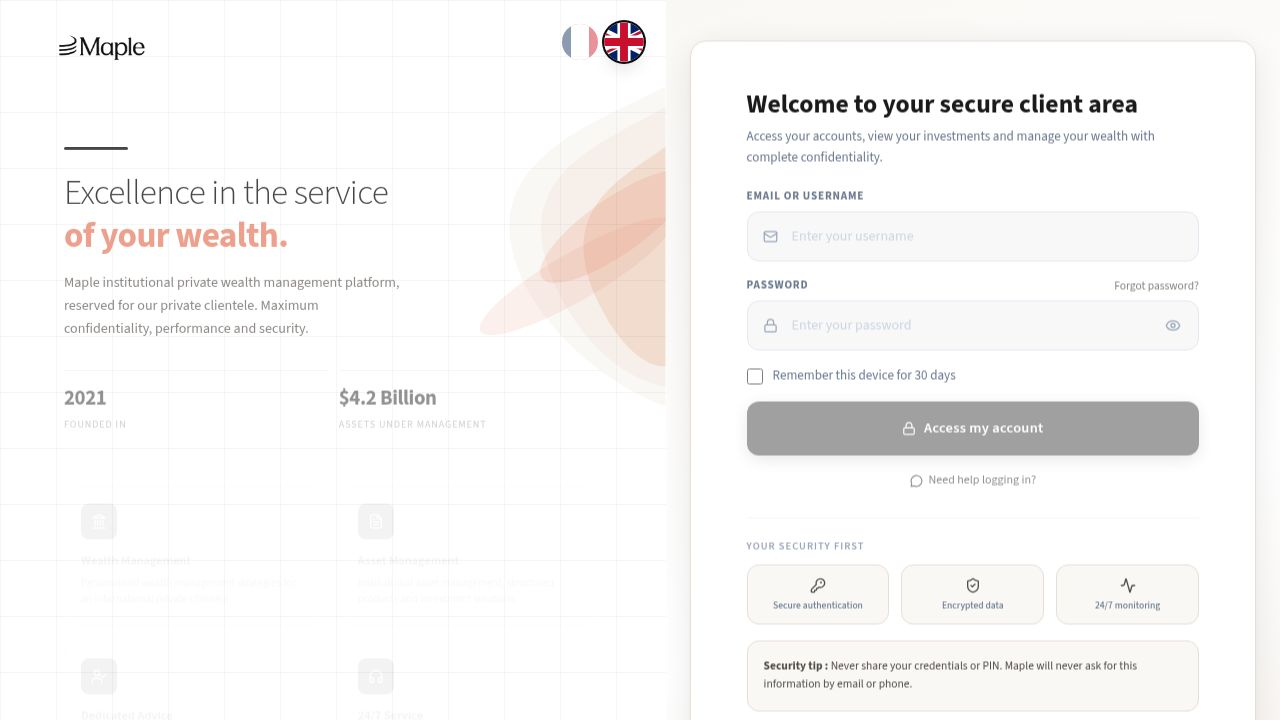
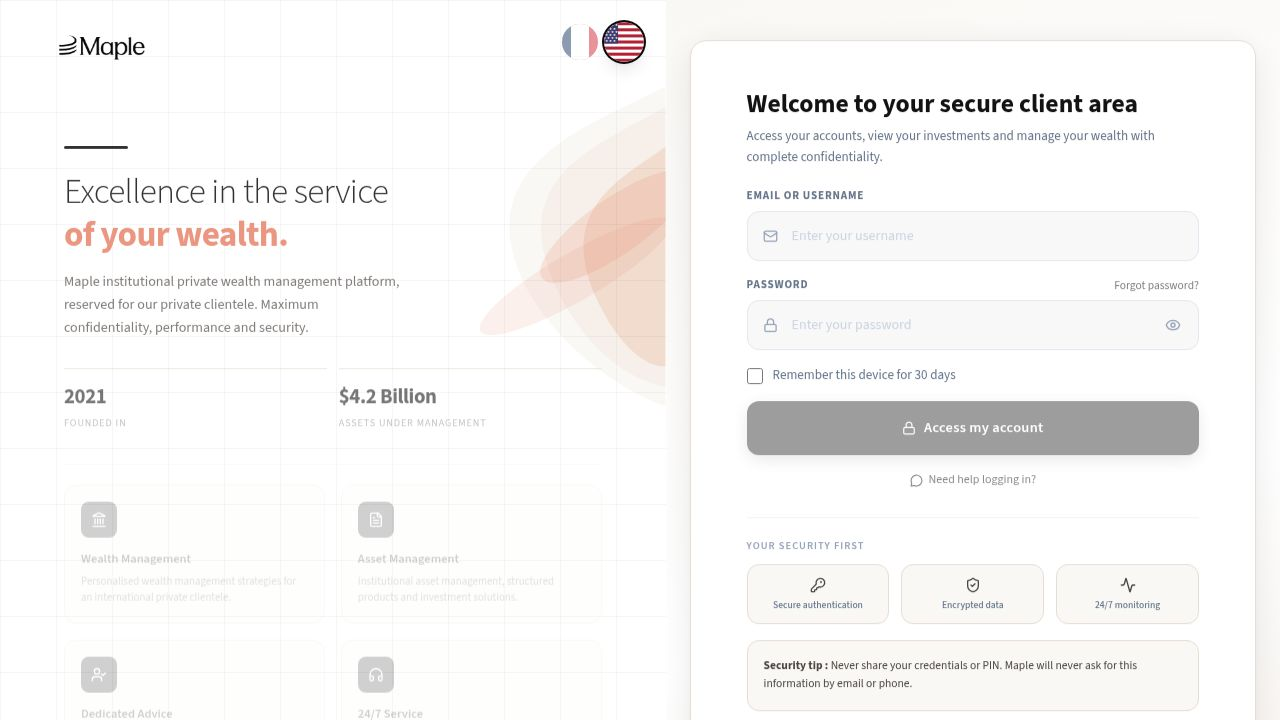
Translate trading platform interface elements to English
Update UI components and configuration files to localize trading platform elements, including symbol categories, terminal tabs, indicator names, order toggles, and account metrics, from French to English.

Replit-Commit-Author: Agent
Replit-Commit-Session-Id: 83ac50db-0d53-4941-9803-5463444df32d
Replit-Commit-Checkpoint-Type: full_checkpoint
Replit-Commit-Event-Id: 18cf37ba-3515-4398-8d2e-e5e9049655b7
Replit-Commit-Screenshot-Url: https://storage.googleapis.com/screenshot-production-us-central1/6fb53e93-b075-4e03-9b6d-995a0dc5282b/83ac50db-0d53-4941-9803-5463444df32d/EEr69GT
Replit-Helium-Checkpoint-Created: true

diff --git a/artifacts/client-portal/src/lib/tradingSymbols.ts b/artifacts/client-portal/src/lib/tradingSymbols.ts
@@ -7,6 +7,24 @@ export const SYMBOL_CATEGORIES = [
   { key: 'stocks',      label: 'Actions'         },
 ];
 
+export function getLocalizedCategories(lang: string) {
+  return [
+    { key: 'crypto',      label: 'Crypto'                                    },
+    { key: 'forex',       label: 'Forex'                                     },
+    { key: 'commodities', label: lang === 'en' ? 'Commodities' : 'Matières 1ères' },
+    { key: 'stocks',      label: lang === 'en' ? 'Stocks'      : 'Actions'        },
+  ];
+}
+
+export function getLocalizedTerminalTabs(lang: string) {
+  return [
+    { key: 'positions', label: 'Positions'                                          },
+    { key: 'orders',    label: lang === 'en' ? 'Orders'          : 'Ordres'         },
+    { key: 'history',   label: lang === 'en' ? 'History'         : 'Historique'     },
+    { key: 'account',   label: lang === 'en' ? 'Account Summary' : 'Résumé Compte'  },
+  ];
+}
+
 export const SYMBOLS: TradingSymbolDef[] = [
   // ── Crypto (Binance USDT) ────────────────────────────────────────────────
   { symbol: 'BTCUSDT',     label: 'BTC/USDT',     type: 'crypto',      spreadKey: 'BTCUSDT'     },
@@ -72,14 +90,14 @@ export const SYMBOLS: TradingSymbolDef[] = [
   { symbol: 'USD/SEK',     label: 'USD/SEK',       type: 'forex',       spreadKey: 'USD/SEK'     },
   { symbol: 'USD/ZAR',     label: 'USD/ZAR',       type: 'forex',       spreadKey: 'USD/ZAR'     },
   // ── Matières premières (Twelve Data) ─────────────────────────────────────
-  { symbol: 'XAU/USD',    label: 'Or (XAU)',        type: 'commodities', spreadKey: 'XAU/USD'    },
-  { symbol: 'XAG/USD',    label: 'Argent (XAG)',    type: 'commodities', spreadKey: 'XAG/USD'    },
-  { symbol: 'WTI/USD',    label: 'Pétrole WTI',     type: 'commodities', spreadKey: 'WTI/USD'    },
+  { symbol: 'XAU/USD',    label: 'Gold (XAU)',      type: 'commodities', spreadKey: 'XAU/USD'    },
+  { symbol: 'XAG/USD',    label: 'Silver (XAG)',    type: 'commodities', spreadKey: 'XAG/USD'    },
+  { symbol: 'WTI/USD',    label: 'WTI Oil',         type: 'commodities', spreadKey: 'WTI/USD'    },
   { symbol: 'BRENT/USD',  label: 'Brent Crude',     type: 'commodities', spreadKey: 'BRENT/USD'  },
-  { symbol: 'XPT/USD',    label: 'Platine (XPT)',   type: 'commodities', spreadKey: 'XPT/USD'    },
+  { symbol: 'XPT/USD',    label: 'Platinum (XPT)',  type: 'commodities', spreadKey: 'XPT/USD'    },
   { symbol: 'XPD/USD',    label: 'Palladium (XPD)', type: 'commodities', spreadKey: 'XPD/USD'    },
-  { symbol: 'NG/USD',     label: 'Gaz naturel',     type: 'commodities', spreadKey: 'NG/USD'     },
-  { symbol: 'COPPER/USD', label: 'Cuivre',          type: 'commodities', spreadKey: 'COPPER/USD' },
+  { symbol: 'NG/USD',     label: 'Natural Gas',     type: 'commodities', spreadKey: 'NG/USD'     },
+  { symbol: 'COPPER/USD', label: 'Copper',          type: 'commodities', spreadKey: 'COPPER/USD' },
   // ── Actions US (Twelve Data) ──────────────────────────────────────────────
   { symbol: 'AAPL',   label: 'Apple',            type: 'stocks',      spreadKey: 'AAPL'   },
   { symbol: 'MSFT',   label: 'Microsoft',        type: 'stocks',      spreadKey: 'MSFT'   },
@@ -151,7 +169,7 @@ export const SYMBOLS: TradingSymbolDef[] = [
 
 export const TERMINAL_TABS = [
   { key: 'positions', label: 'Positions'     },
-  { key: 'orders',    label: 'Ordres'        },
-  { key: 'history',   label: 'Historique'    },
-  { key: 'account',   label: 'Résumé Compte' },
+  { key: 'orders',    label: 'Orders'        },
+  { key: 'history',   label: 'History'       },
+  { key: 'account',   label: 'Account Summary' },
 ];

diff --git a/artifacts/client-portal/src/components/trading/TradingDashboardMT4.tsx b/artifacts/client-portal/src/components/trading/TradingDashboardMT4.tsx
@@ -8,7 +8,8 @@ import MT4AccountBar from './MT4AccountBar';
 import { useTradingData } from '@/hooks/useTradingData';
 import { useRealtimeMarketPrices } from '@/hooks/useRealtimeMarketPrices';
 import { getBidAskPrices } from '@/lib/tradingMarketData';
-import { SYMBOLS, SYMBOL_CATEGORIES, TERMINAL_TABS } from '@/lib/tradingSymbols';
+import { SYMBOLS, TERMINAL_TABS, getLocalizedCategories, getLocalizedTerminalTabs } from '@/lib/tradingSymbols';
+import { useLanguage } from '@/contexts/LanguageContext';
 
 interface Props {
   portfolio: any;
@@ -17,6 +18,9 @@ interface Props {
 }
 
 const TradingDashboardMT4 = ({ portfolio, leadId, onPortfolioUpdate }: Props) => {
+  const { lang } = useLanguage();
+  const localizedCategories = getLocalizedCategories(lang);
+  const localizedTabs = getLocalizedTerminalTabs(lang);
   const [selectedSymbol, setSelectedSymbol] = useState(SYMBOLS[0]);
   const [activeTerminalTab, setActiveTerminalTab] = useState('positions');
   const [showOrderPanel, setShowOrderPanel] = useState(true);
@@ -84,7 +88,7 @@ const TradingDashboardMT4 = ({ portfolio, leadId, onPortfolioUpdate }: Props) =>
       <div className="flex-1 flex overflow-hidden">
         <MT4MarketWatch
           symbols={SYMBOLS}
-          categories={SYMBOL_CATEGORIES}
+          categories={localizedCategories}
           livePrices={livePrices}
           spreadsConfig={spreadsConfig}
           selectedSymbol={selectedSymbol.symbol}
@@ -121,7 +125,7 @@ const TradingDashboardMT4 = ({ portfolio, leadId, onPortfolioUpdate }: Props) =>
 
       <div className="h-[200px] shrink-0 border-t border-[#3a3a52] bg-[#1e1e32] flex flex-col">
         <div className="flex items-center border-b border-[#2d2d44] bg-[#252540]">
-          {TERMINAL_TABS.map(tab => (
+          {localizedTabs.map(tab => (
             <button
               key={tab.key}
               onClick={() => setActiveTerminalTab(tab.key)}
@@ -145,7 +149,7 @@ const TradingDashboardMT4 = ({ portfolio, leadId, onPortfolioUpdate }: Props) =>
             onClick={() => setShowOrderPanel(!showOrderPanel)}
             className="px-3 py-1 text-[10px] text-[#8a8fa3] hover:text-[#c5c8d6] transition-colors"
           >
-            {showOrderPanel ? 'Masquer Ordres' : 'Afficher Ordres'}
+            {showOrderPanel ? (lang === 'en' ? 'Hide Orders' : 'Masquer Ordres') : (lang === 'en' ? 'Show Orders' : 'Afficher Ordres')}
           </button>
         </div>
 
@@ -178,12 +182,12 @@ const TradingDashboardMT4 = ({ portfolio, leadId, onPortfolioUpdate }: Props) =>
           {activeTerminalTab === 'account' && (
             <div className="grid grid-cols-6 gap-2 p-2 text-[11px]">
               {[
-                { label: 'Solde',        value: `$${portfolio.balance?.toLocaleString('en-US', { minimumFractionDigits: 2 })}`,                     color: '#c5c8d6' },
-                { label: 'Equité',       value: `$${equity.toLocaleString('en-US', { minimumFractionDigits: 2 })}`,                                 color: '#c5c8d6' },
-                { label: 'Marge',        value: `$${margin.toLocaleString('en-US', { minimumFractionDigits: 2 })}`,                                  color: '#f0ad4e' },
-                { label: 'Marge libre',  value: `$${freeMargin.toLocaleString('en-US', { minimumFractionDigits: 2 })}`,                             color: freeMargin >= 0 ? '#5cb85c' : '#d9534f' },
-                { label: 'Niveau marge', value: margin > 0 ? `${marginLevel.toFixed(1)}%` : '—',                                                     color: marginLevel > 100 ? '#5cb85c' : '#d9534f' },
-                { label: 'PnL flottant', value: `${unrealizedPnl >= 0 ? '+' : ''}$${unrealizedPnl.toFixed(2)}`,                                     color: unrealizedPnl >= 0 ? '#5cb85c' : '#d9534f' },
+                { label: lang === 'en' ? 'Balance'       : 'Solde',        value: `$${portfolio.balance?.toLocaleString('en-US', { minimumFractionDigits: 2 })}`,  color: '#c5c8d6' },
+                { label: lang === 'en' ? 'Equity'        : 'Equité',       value: `$${equity.toLocaleString('en-US', { minimumFractionDigits: 2 })}`,              color: '#c5c8d6' },
+                { label: lang === 'en' ? 'Margin'        : 'Marge',        value: `$${margin.toLocaleString('en-US', { minimumFractionDigits: 2 })}`,              color: '#f0ad4e' },
+                { label: lang === 'en' ? 'Free margin'   : 'Marge libre',  value: `$${freeMargin.toLocaleString('en-US', { minimumFractionDigits: 2 })}`,         color: freeMargin >= 0 ? '#5cb85c' : '#d9534f' },
+                { label: lang === 'en' ? 'Margin level'  : 'Niveau marge', value: margin > 0 ? `${marginLevel.toFixed(1)}%` : '—',                                color: marginLevel > 100 ? '#5cb85c' : '#d9534f' },
+                { label: lang === 'en' ? 'Floating PnL'  : 'PnL flottant', value: `${unrealizedPnl >= 0 ? '+' : ''}$${unrealizedPnl.toFixed(2)}`,                 color: unrealizedPnl >= 0 ? '#5cb85c' : '#d9534f' },
               ].map(item => (
                 <div key={item.label} className="bg-[#252540] rounded p-2">
                   <p className="text-[#6b7082] mb-0.5">{item.label}</p>

diff --git a/artifacts/client-portal/src/components/trading/TradingIndicatorSelector.tsx b/artifacts/client-portal/src/components/trading/TradingIndicatorSelector.tsx
@@ -1,6 +1,7 @@
 import { useState } from 'react';
 import { Activity } from 'lucide-react';
 import { AVAILABLE_INDICATORS, IndicatorDef } from '@/lib/tradingIndicators';
+import { useLanguage } from '@/contexts/LanguageContext';
 
 interface Props {
   activeIndicators: string[];
@@ -25,6 +26,7 @@ const INDICATOR_COLORS: Record<string, string> = {
 
 const TradingIndicatorSelector = ({ activeIndicators, onToggle }: Props) => {
   const [open, setOpen] = useState(false);
+  const { lang } = useLanguage();
 
   const overlays = AVAILABLE_INDICATORS.filter(i => i.category === 'overlay');
   const oscillators = AVAILABLE_INDICATORS.filter(i => i.category === 'oscillator');
@@ -36,7 +38,7 @@ const TradingIndicatorSelector = ({ activeIndicators, onToggle }: Props) => {
         className="flex items-center gap-1 px-2 py-0.5 rounded text-[10px] font-medium text-[#8a8fa3] hover:text-[#c5c8d6] hover:bg-[#2d2d44] transition-colors"
       >
         <Activity className="w-3 h-3" />
-        Indicateurs
+        {lang === 'en' ? 'Indicators' : 'Indicateurs'}
         {activeIndicators.length > 0 && (
           <span className="bg-[#4a90d9] text-white rounded-full w-3.5 h-3.5 text-[9px] flex items-center justify-center font-bold">
             {activeIndicators.length}
@@ -50,7 +52,7 @@ const TradingIndicatorSelector = ({ activeIndicators, onToggle }: Props) => {
           <div className="absolute top-full left-0 mt-1 z-50 bg-[#252540] border border-[#3a3a52] rounded-lg shadow-2xl w-64 max-h-[60vh] overflow-y-auto">
             {/* Overlays */}
             <div className="px-2 py-1.5 border-b border-[#2d2d44]">
-              <p className="text-[9px] font-bold text-[#6b7082] uppercase tracking-wider">Superposition</p>
+              <p className="text-[9px] font-bold text-[#6b7082] uppercase tracking-wider">{lang === 'en' ? 'Overlays' : 'Superposition'}</p>
             </div>
             <div className="py-0.5">
               {overlays.map(ind => (
@@ -60,7 +62,7 @@ const TradingIndicatorSelector = ({ activeIndicators, onToggle }: Props) => {
 
             {/* Oscillators */}
             <div className="px-2 py-1.5 border-b border-t border-[#2d2d44]">
-              <p className="text-[9px] font-bold text-[#6b7082] uppercase tracking-wider">Oscillateurs</p>
+              <p className="text-[9px] font-bold text-[#6b7082] uppercase tracking-wider">{lang === 'en' ? 'Oscillators' : 'Oscillateurs'}</p>
             </div>
             <div className="py-0.5">
               {oscillators.map(ind => (
@@ -74,7 +76,7 @@ const TradingIndicatorSelector = ({ activeIndicators, onToggle }: Props) => {
                   onClick={() => activeIndicators.forEach(id => onToggle(id))}
                   className="w-full text-[10px] text-[#6b7082] hover:text-[#ef5350] py-1 text-center transition-colors"
                 >
-                  Tout désactiver
+                  {lang === 'en' ? 'Disable all' : 'Tout désactiver'}
                 </button>
               </div>
             )}